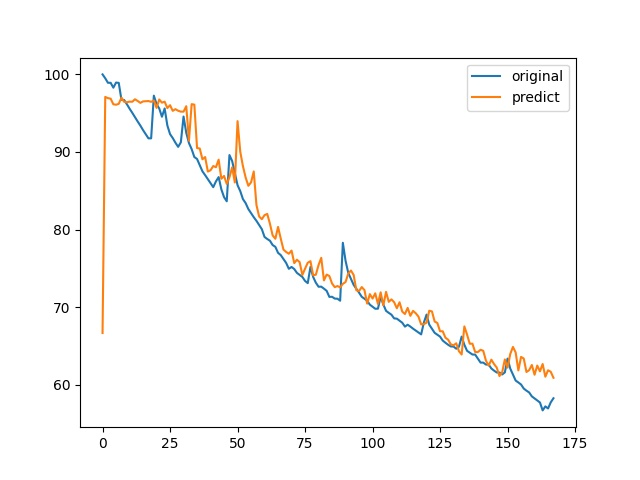
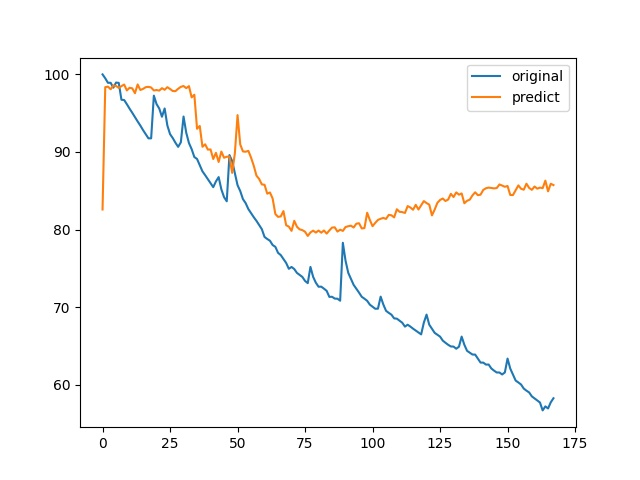
fix Rf

Changed region(s): [[0.1562, 0.1562, 0.875, 0.6875], [0.6875, 0.6875, 0.875, 0.8125]]

diff --git a/Analysis/SoH_Estimation/samsung_nature_code/method.py b/Analysis/SoH_Estimation/samsung_nature_code/method.py
@@ -13,22 +13,14 @@ def get_capacity(batt_data, discharging = False):
         return capacity
 
 def get_Rf(volt_curr_data, init_data = True):
-    if init_data:
-        tv = 0
-        ti = 0
-        for v,i in zip(volt_curr_data['Voltage_measured'], volt_curr_data['Current_measured']):
-            tv += v
-            ti += i
-        return tv/ti 
-    else: # 안됨
-        eod = np.argmin(volt_curr_data['Voltage_measured'])
-        volt_eod = volt_curr_data['Voltage_measured'][eod]
-        curr_eod = volt_curr_data['Current_measured'][eod]
-        sor = np.where(volt_curr_data['Current_measured'] > -0.1)[0]
-        for s in sor:
-            if s > 5:
-                volt_sor = volt_curr_data['Voltage_measured'][s]
-                return (volt_eod - volt_sor) / curr_eod
+    eod = np.argmin(volt_curr_data['Voltage_measured'])
+    volt_eod = volt_curr_data['Voltage_measured'][eod]
+    curr_eod = volt_curr_data['Current_measured'][eod]
+    sor = np.where(volt_curr_data['Current_measured'] > -0.1)[0]
+    for s in sor:
+        if s > eod + 5:
+            volt_sor = volt_curr_data['Voltage_measured'][s]
+            return (volt_eod - volt_sor) / curr_eod
         
 
 def get_SOC(batt_data,capacity):
@@ -51,7 +43,7 @@ def get_Vsei(data, r):
     cap = get_capacity(data)
     soc = get_SOC(data,cap)
 
-    volt_threshold = np.mean(data['Voltage_measured']) * 0.90 # 미정 // Vsei를 시작할 부분
+    volt_threshold = np.mean(data['Voltage_measured']) * 0 # 미정 // Vsei를 시작할 부분
     init_threshold = np.where(data['Voltage_measured'] > volt_threshold)[0]
     vsei = []
     temperature = []
@@ -61,7 +53,7 @@ def get_Vsei(data, r):
         if soc[i] > min_soc and soc[i] < max_soc and soc[i] >= (pre_soc + soc_margin):
             v = data['Voltage_measured'][i]
             curr = data['Current_measured'][i]
-            vsei.append(v - r*curr)
+            vsei.append(v - r * curr)
             temperature.append(data['Temperature_measured'][i])
             pre_soc = soc[i]
 

diff --git a/Analysis/SoH_Estimation/samsung_nature_code/vsei_feature.py b/Analysis/SoH_Estimation/samsung_nature_code/vsei_feature.py
@@ -7,7 +7,10 @@ def get_vsei_feature(data, dataset_name, is_testset = False):
     for i in range(len(dataset_name)):
         cycles = len(data['charge'][i])
         cmax = data['discharge'][i][0]['Capacity']
-        rf = get_Rf(data['charge'][i][0])
+        for j in range(cycles):
+            rf = get_Rf(data['discharge'][i][j])
+            if rf:
+                break
         for cycle, charge_data, discharge_data in zip(range(cycles),data['charge'][i],data['discharge'][i]):
             vsei_feature = get_Vsei(charge_data, rf)
 

diff --git a/Analysis/SoH_Estimation/samsung_nature_code/config.py b/Analysis/SoH_Estimation/samsung_nature_code/config.py
@@ -10,7 +10,7 @@ trainset = [("B0007","Battery_Data_Set"), ("B0005","Battery_Data_Set"), ("B0018"
 testset = [("B0006","Battery_Data_Set")]
 
 min_soc = 0.2
-max_soc = 0.6
+max_soc = 1
 
 soc_margin = 0.03 # soc 간격이 1.5%가 아니라 더 높게해야 잘나옴
 
